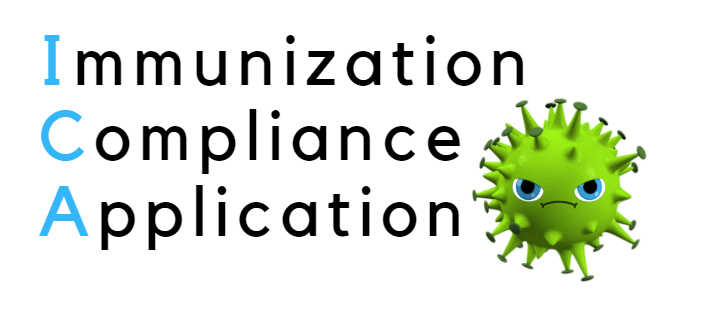
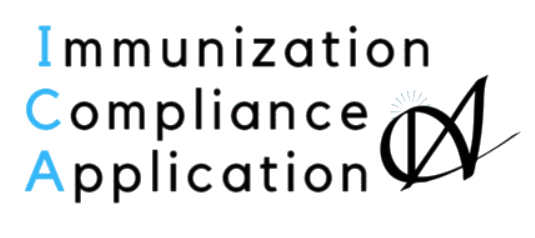
Updated Login Screen
added photo and patient class details

Changed region(s): [[0.0299, 0.0882, 0.9869, 0.9118]]

diff --git a/icaScreens.py b/icaScreens.py
@@ -828,6 +828,27 @@ class Patient():
 
     def getContact(self):
         return [["(925)980-4048", "Mobile"], "austin@gmail.com", "English", "Phone"]
+
+    def getFullSummary(self):
+        return None
+    
+    def getFullHistory(self):
+        return None
+
+    def getFullContact(self):
+        return None
+
+    def getFullInsurance(self):
+        return None
+
+    def getGarentor(self):
+        return None
+
+    def getLastService(self):
+        return None
+
+    def getFullImmunizationHistory(self):
+        return None
            
 
 class med_INFO_SCREEN(icaSCREENS):
@@ -925,7 +946,7 @@ class loginScreen(icaSCREENS):
         super().__init__(window)
         self.root.title("ICA")
         self.root.geometry("800x600")
-        self.background = Canvas(self.root,width=800,height=600,bg="light blue")
+        self.background = Canvas(self.root,width=800,height=600)
         self.background.place(x=0,y=0)
 
 

diff --git a/DemoGraphics.py b/DemoGraphics.py
@@ -1,5 +1,3 @@
-
-
 class DemoGraphics():
 
     def __init__(self):
